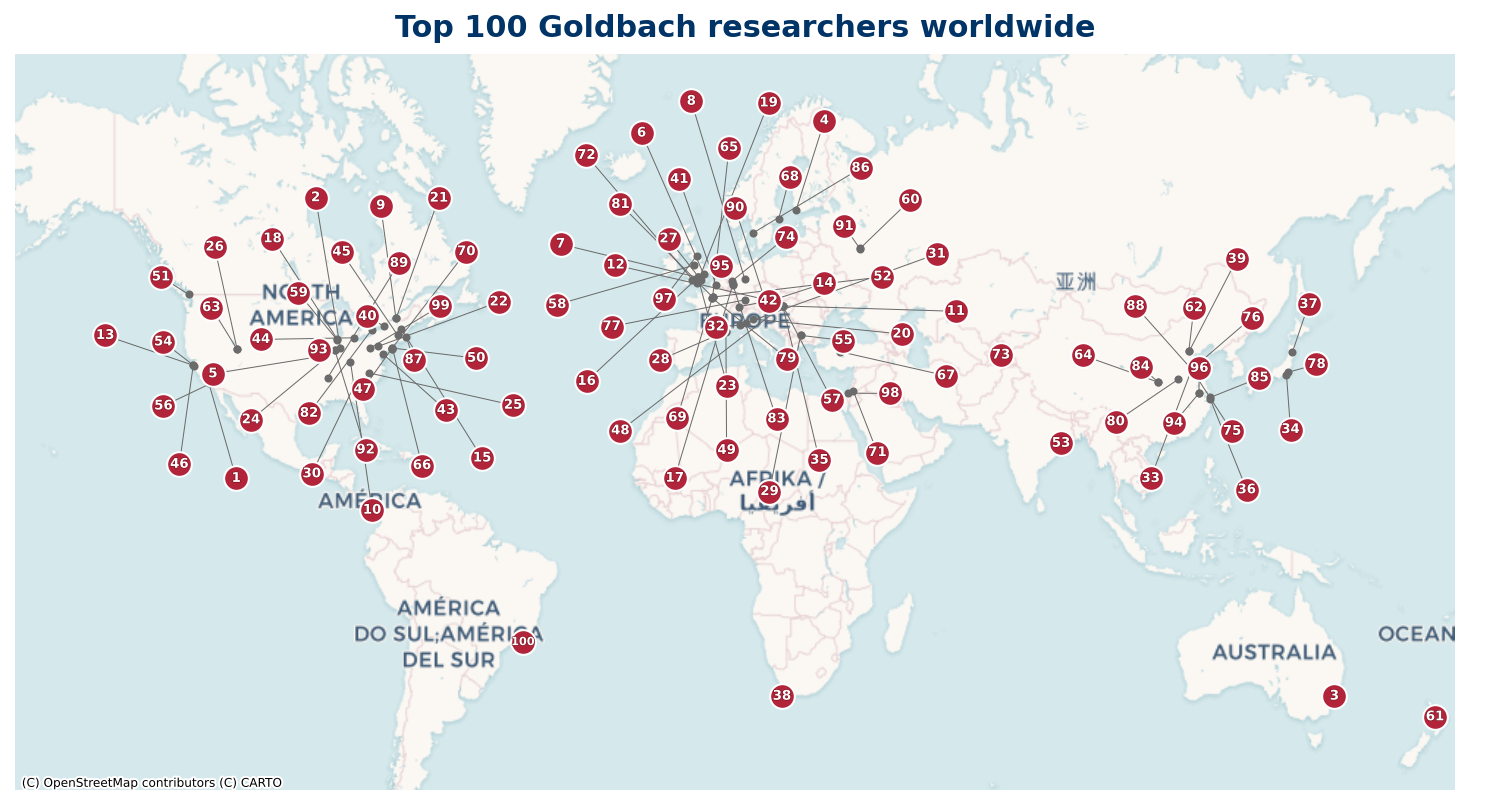
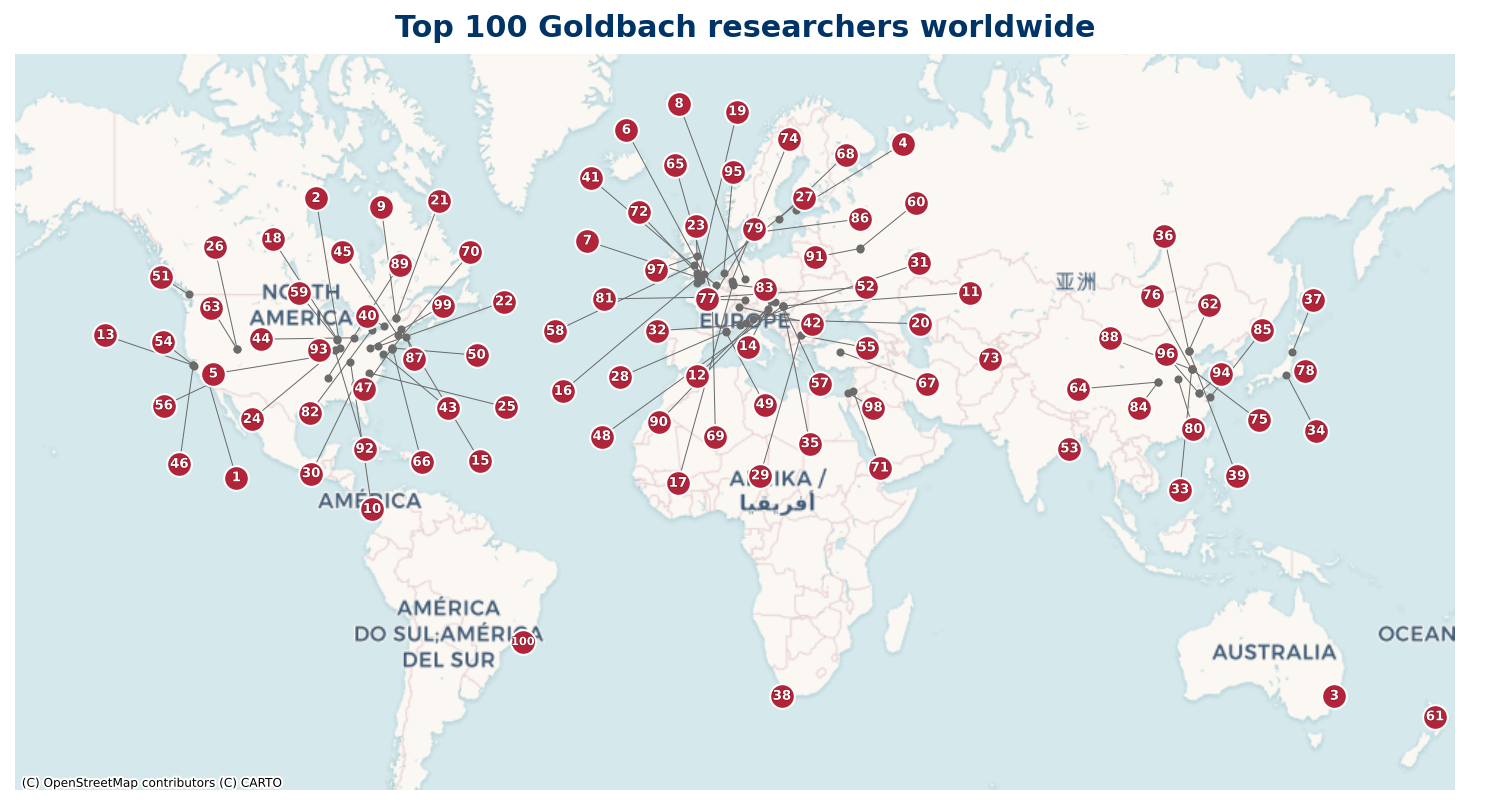
Correct affiliations: Jinjiang Li and Akshat Mudgal

diff --git a/_site/top100.html b/_site/top100.html
@@ -79,7 +79,7 @@
 <tr><td>33</td><td><a href="people/jianya-liu.html">Jianya Liu</a></td><td>Shandong University</td><td>CN</td><td data-order="82">[82]</td><td data-order="10">10</td><td>oa_only</td><td>1996</td><td>2025</td></tr>
 <tr><td>34</td><td><a href="people/yoichi-motohashi.html">Yoichi Motohashi</a></td><td>Nihon University</td><td>JP</td><td data-order="58">[58]</td><td data-order="35">35</td><td>oa_only</td><td>1974</td><td>2014</td></tr>
 <tr><td>35</td><td><a href="people/antal-balog.html">Antal Balog</a></td><td>Franz Liszt Academy of Music</td><td>HU</td><td data-order="58">[58]</td><td data-order="36">36</td><td>oa_only</td><td>1985</td><td>2013</td></tr>
-<tr><td>36</td><td><a href="people/jinjiang-li.html">Jinjiang Li</a></td><td>Shanghai Jiao Tong University</td><td>CN</td><td data-order="41">41</td><td data-order="54">54</td><td>both</td><td>2016</td><td>2026</td></tr>
+<tr><td>36</td><td><a href="people/jinjiang-li.html">Jinjiang Li</a></td><td>China University of Mining and Technology (Beijing)</td><td>CN</td><td data-order="41">41</td><td data-order="54">54</td><td>both</td><td>2016</td><td>2026</td></tr>
 <tr><td>37</td><td><a href="people/koichi-kawada.html">Koichi Kawada</a></td><td>Iwate University</td><td>JP</td><td data-order="60">[60]</td><td data-order="38">38</td><td>oa_only</td><td>1993</td><td>2019</td></tr>
 <tr><td>38</td><td><a href="people/florian-luca.html">Florian Luca</a></td><td>Stellenbosch University</td><td>ZA</td><td data-order="85">85</td><td data-order="13">13</td><td>both</td><td>2009</td><td>2019</td></tr>
 <tr><td>39</td><td><a href="people/min-zhang.html">Min Zhang</a></td><td>Beijing Information Science &amp; Technology University</td><td>CN</td><td data-order="42">42</td><td data-order="57">57</td><td>both</td><td>2016</td><td>2026</td></tr>
@@ -115,7 +115,7 @@
 <tr><td>69</td><td><a href="people/etienne-fouvry.html">Étienne Fouvry</a></td><td>Université Paris-Saclay</td><td>FR</td><td data-order="94">94</td><td data-order="47">47</td><td>both</td><td>2012</td><td>2025</td></tr>
 <tr><td>70</td><td><a href="people/peter-sarnak.html">Peter Sarnak</a></td><td>Princeton University</td><td>US</td><td data-order="82">[82]</td><td data-order="60">60</td><td>oa_only</td><td>1986</td><td>2013</td></tr>
 <tr><td>71</td><td><a href="people/malik-bataineh.html">Malik Bataineh</a></td><td>Jordan University of Science and Technology</td><td>JO</td><td data-order="82">[82]</td><td data-order="61">61</td><td>oa_only</td><td>2008</td><td>2022</td></tr>
-<tr><td>72</td><td><a href="people/akshat-mudgal.html">Akshat Mudgal</a></td><td>University of Bristol</td><td>GB</td><td data-order="54">54</td><td data-order="91">[91]</td><td>arxiv_only</td><td>2020</td><td>2023</td></tr>
+<tr><td>72</td><td><a href="people/akshat-mudgal.html">Akshat Mudgal</a></td><td>University of Warwick</td><td>GB</td><td data-order="54">54</td><td data-order="91">[91]</td><td>arxiv_only</td><td>2020</td><td>2023</td></tr>
 <tr><td>73</td><td><a href="people/researcher.html">З. Х. Рахмонов</a></td><td>Academy of Sciences of the Republic of Tajikistan</td><td>TJ</td><td data-order="73">[73]</td><td data-order="73">73</td><td>oa_only</td><td>2003</td><td>2025</td></tr>
 <tr><td>74</td><td><a href="people/karin-halupczok.html">Karin Halupczok</a></td><td>Heinrich Heine University Düsseldorf</td><td>DE</td><td data-order="20">20</td><td data-order="127">127</td><td>both</td><td>2007</td><td>2021</td></tr>
 <tr><td>75</td><td><a href="people/guangshi-lu.html">Guangshi Lü</a></td><td>Shandong University</td><td>CN</td><td data-order="73">[73]</td><td data-order="74">74</td><td>oa_only</td><td>2004</td><td>2011</td></tr>

diff --git a/_site/regions/asia.html b/_site/regions/asia.html
@@ -48,7 +48,7 @@
 <tr><td>3</td><td><a href="../people/igor-e-shparlinski.html">Igor E. Shparlinski</a></td><td>UNSW Sydney</td><td>AU</td></tr>
 <tr><td>33</td><td><a href="../people/jianya-liu.html">Jianya Liu</a></td><td>Shandong University</td><td>CN</td></tr>
 <tr><td>34</td><td><a href="../people/yoichi-motohashi.html">Yoichi Motohashi</a></td><td>Nihon University</td><td>JP</td></tr>
-<tr><td>36</td><td><a href="../people/jinjiang-li.html">Jinjiang Li</a></td><td>Shanghai Jiao Tong University</td><td>CN</td></tr>
+<tr><td>36</td><td><a href="../people/jinjiang-li.html">Jinjiang Li</a></td><td>China University of Mining and Technology (Beijing)</td><td>CN</td></tr>
 <tr><td>37</td><td><a href="../people/koichi-kawada.html">Koichi Kawada</a></td><td>Iwate University</td><td>JP</td></tr>
 <tr><td>39</td><td><a href="../people/min-zhang.html">Min Zhang</a></td><td>Beijing Information Science &amp; Technology University</td><td>CN</td></tr>
 <tr><td>53</td><td><a href="../people/stephan-baier.html">Stephan Baier</a></td><td>Ramakrishna Mission Vidyamandira</td><td>IN</td></tr>

diff --git a/_site/regions/europe.html b/_site/regions/europe.html
@@ -76,7 +76,7 @@
 <tr><td>67</td><td><a href="../people/ahmet-m-guloglu.html">Ahmet M. Güloğlu</a></td><td>Bilkent University</td><td>TR</td></tr>
 <tr><td>68</td><td><a href="../people/par-kurlberg.html">Pär Kurlberg</a></td><td>KTH Royal Institute of Technology</td><td>SE</td></tr>
 <tr><td>69</td><td><a href="../people/etienne-fouvry.html">Étienne Fouvry</a></td><td>Université Paris-Saclay</td><td>FR</td></tr>
-<tr><td>72</td><td><a href="../people/akshat-mudgal.html">Akshat Mudgal</a></td><td>University of Bristol</td><td>GB</td></tr>
+<tr><td>72</td><td><a href="../people/akshat-mudgal.html">Akshat Mudgal</a></td><td>University of Warwick</td><td>GB</td></tr>
 <tr><td>74</td><td><a href="../people/karin-halupczok.html">Karin Halupczok</a></td><td>Heinrich Heine University Düsseldorf</td><td>DE</td></tr>
 <tr><td>77</td><td><a href="../people/helmut-maier.html">Helmut Maier</a></td><td>Helmholtz-Institute Ulm</td><td>DE</td></tr>
 <tr><td>79</td><td><a href="../people/ph-michel.html">Ph. Michel</a></td><td>Université Paris-Sud</td><td>FR</td></tr>

diff --git a/_site/people/jinjiang-li.html b/_site/people/jinjiang-li.html
@@ -34,7 +34,7 @@
 <main>
 <p class="subtitle"><a href="../top100.html">&larr; Back to the Top 100</a></p>
 <h1>Jinjiang Li (#36)</h1>
-<p class="subtitle">Shanghai Jiao Tong University (CN)</p>
+<p class="subtitle">China University of Mining and Technology (Beijing) (CN)</p>
 
 <table class="profile-table">
 <tbody>

diff --git a/_site/people/akshat-mudgal.html b/_site/people/akshat-mudgal.html
@@ -34,7 +34,7 @@
 <main>
 <p class="subtitle"><a href="../top100.html">&larr; Back to the Top 100</a></p>
 <h1>Akshat Mudgal (#72)</h1>
-<p class="subtitle">University of Bristol (GB)</p>
+<p class="subtitle">University of Warwick (GB)</p>
 
 <table class="profile-table">
 <tbody>
